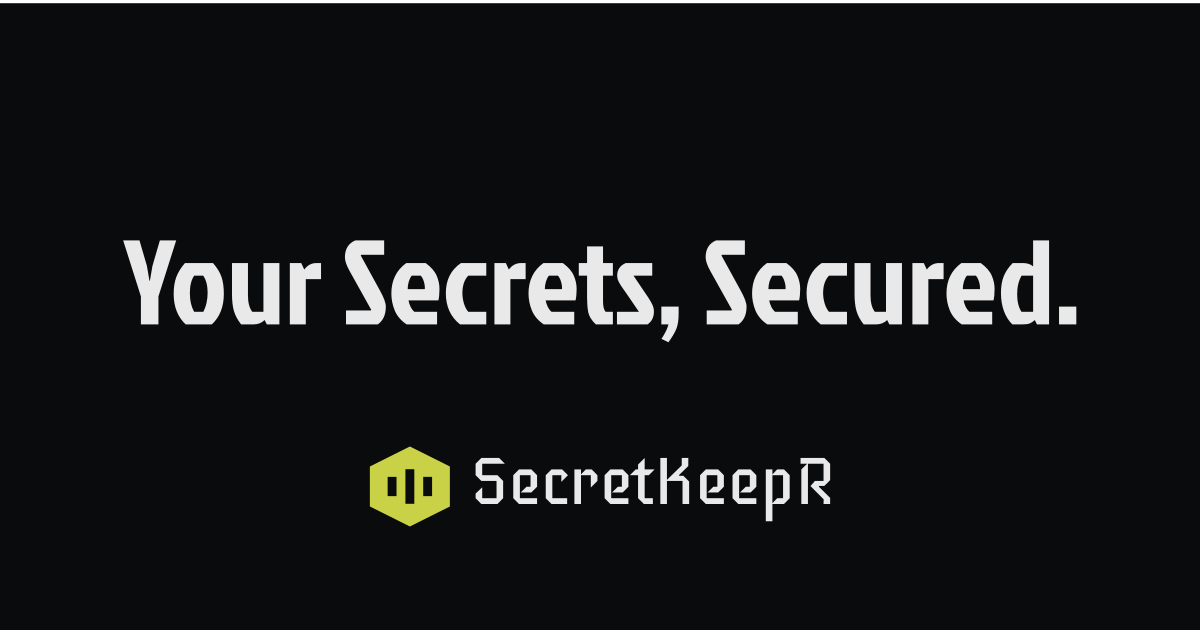
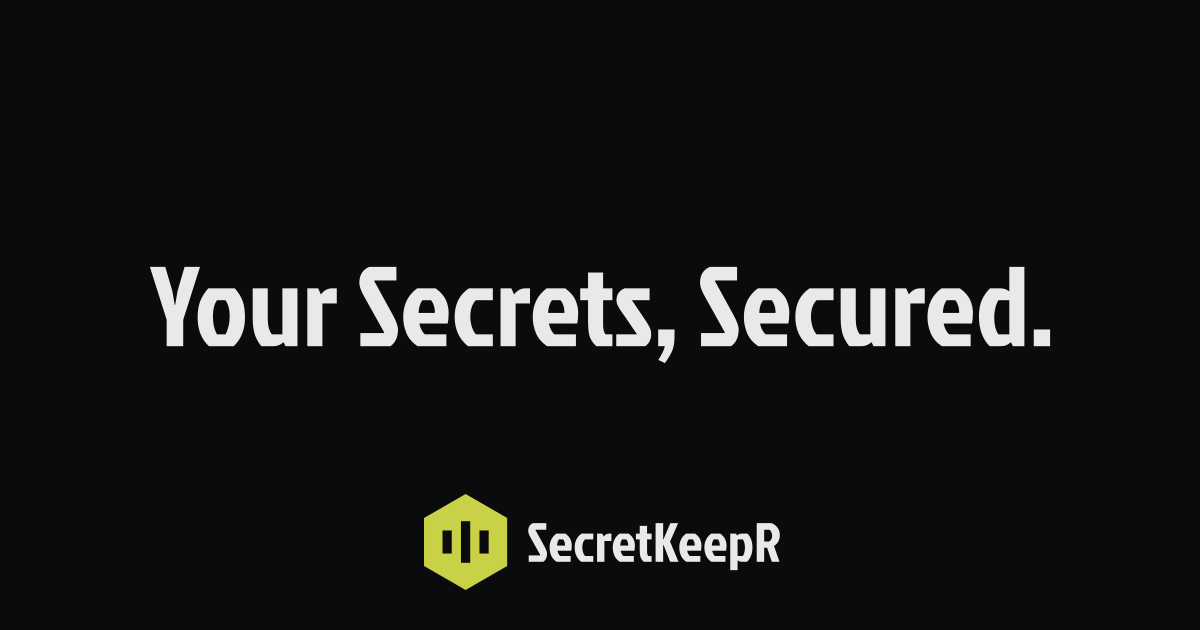
chore(seo): update branding assets

Changed region(s): [[0.0925, 0.3619, 0.8942, 0.573], [0.3083, 0.6937, 0.7092, 0.9349], [0.0, 0.0, 1.0, 0.0302]]

diff --git a/app/components/navbar.vue b/app/components/navbar.vue
@@ -2,11 +2,7 @@
   <div v-if="userStore.user" class="navigation-group bg-card justify-between border-b-2 p-4">
     <div class="navigation-group">
       <nuxt-link to="/" class="hover:scale-sm flex flex-row items-center gap-2 transition-all">
-        <img
-          src="/assets/logo.png" alt="Logo"
-          width="30" height="30"
-          class="rounded-full"
-        >
+        <img src="/assets/logo-icon.png" alt="Logo" width="35" height="35">
       </nuxt-link>
 
       <nav class="navigation-group text-sm" aria-label="Breadcrumbs Navigation">

diff --git a/app/layouts/default.vue b/app/layouts/default.vue
@@ -1,8 +1,8 @@
 <template>
   <nav class="absolute top-0 left-0 z-50 w-full p-4">
     <div to="/" class="hover:scale-sm flex flex-row items-center justify-center gap-2 transition-all select-none">
-      <img src="/assets/logo.png" alt="Logo" width="35" height="35">
-      <span class="font-display text-2xl">SecretKeepR</span>
+      <img src="/assets/logo-icon.png" alt="Logo" width="35" height="35">
+      <img src="/assets/logo-title-dark.png" alt="Logo" width="140" height="35">
     </div>
   </nav>
 

diff --git a/app/pages/sign-in.vue b/app/pages/sign-in.vue
@@ -5,7 +5,7 @@
       :initial="{ opacity: 0 }" :visible="{ opacity: 1 }"
       :duration="800"
     >
-      <img src="/assets/logo.png" alt="Logo" width="120" height="120">
+      <img src="/assets/logo-icon.png" alt="Logo" width="120" height="120">
 
       <div class="flex flex-col items-center gap-2 md:items-start">
         <h1>

diff --git a/app/pages/legal/terms.vue b/app/pages/legal/terms.vue
@@ -4,7 +4,7 @@
     :initial="{ opacity: 0, scale: 0.8 }" :visible="{ opacity: 1, scale: 1 }"
     :duration="800"
   >
-    <img src="/assets/logo.png" alt="Logo" width="80" height="80">
+    <img src="/assets/logo-icon.png" alt="Logo" width="80" height="80">
     <h2 class="font-display">
       Terms of Service
     </h2>

diff --git a/app/pages/legal/privacy.vue b/app/pages/legal/privacy.vue
@@ -4,7 +4,7 @@
     :initial="{ opacity: 0, scale: 0.8 }" :visible="{ opacity: 1, scale: 1 }"
     :duration="800"
   >
-    <img src="/assets/logo.png" alt="Logo" width="80" height="80">
+    <img src="/assets/logo-icon.png" alt="Logo" width="80" height="80">
     <h2 class="font-display">
       Privacy Policy
     </h2>
